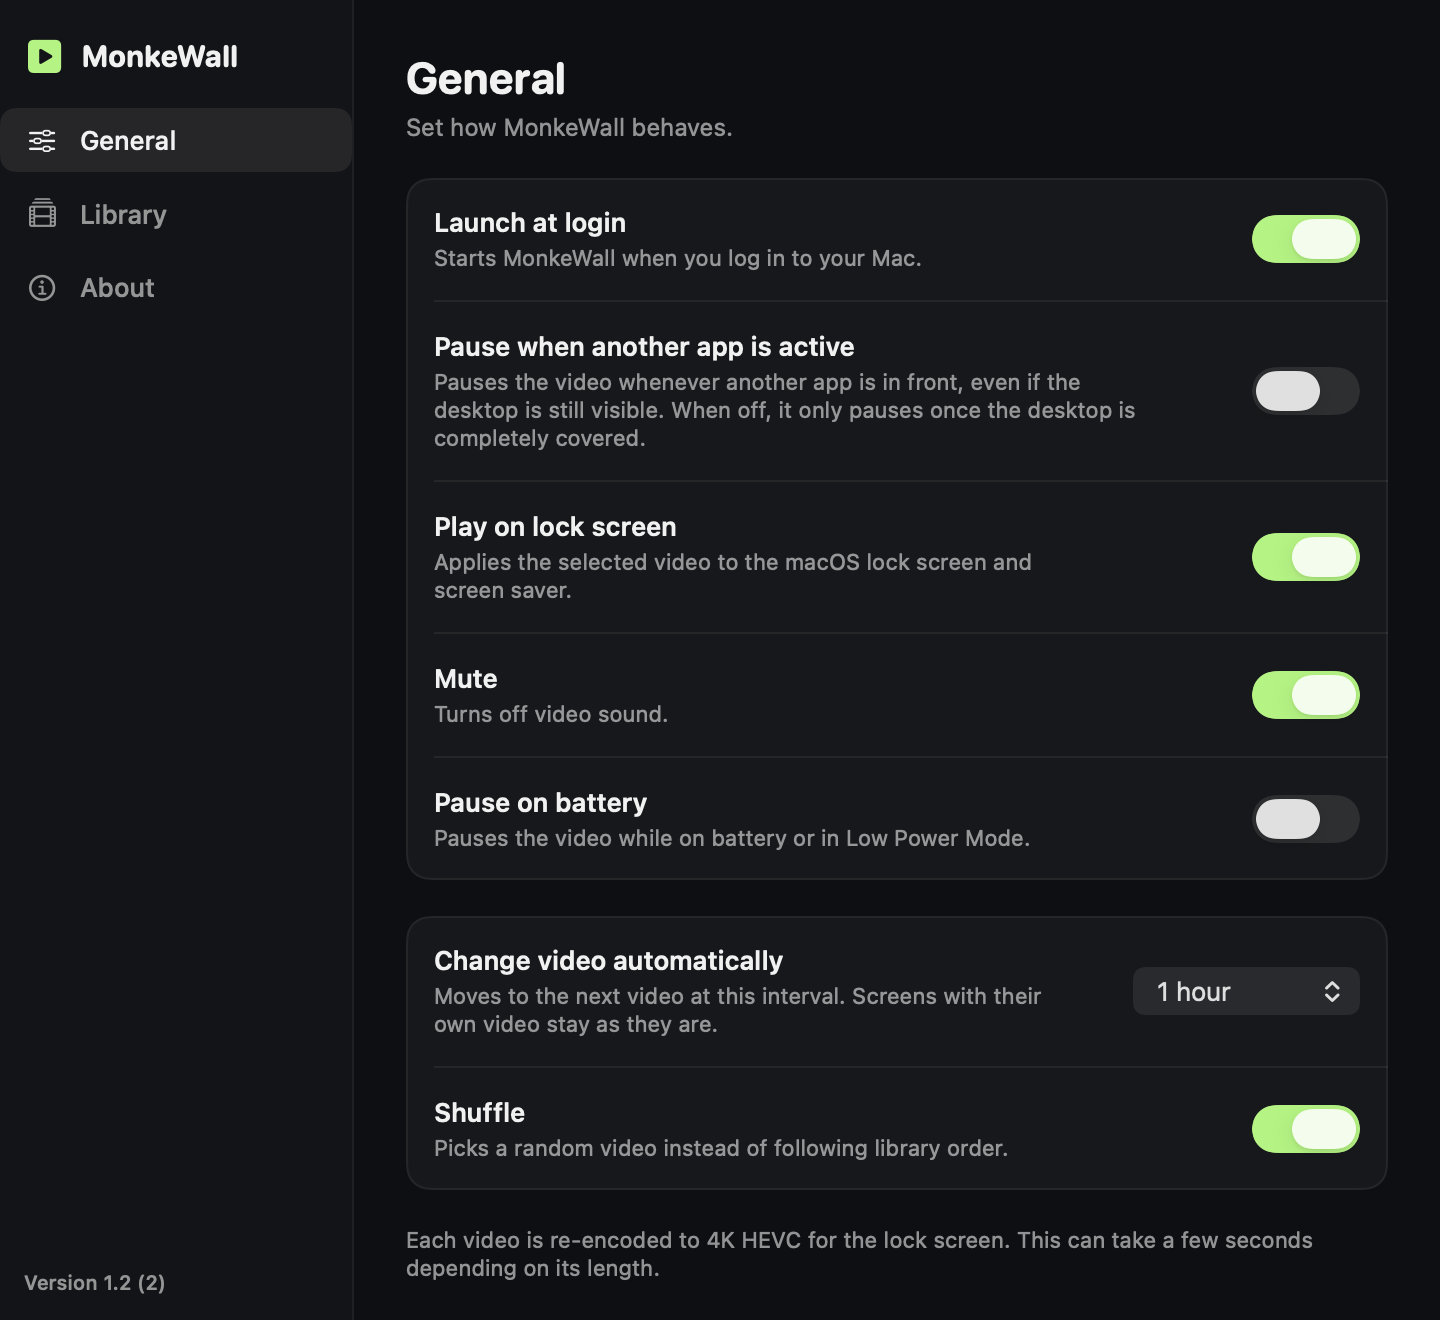
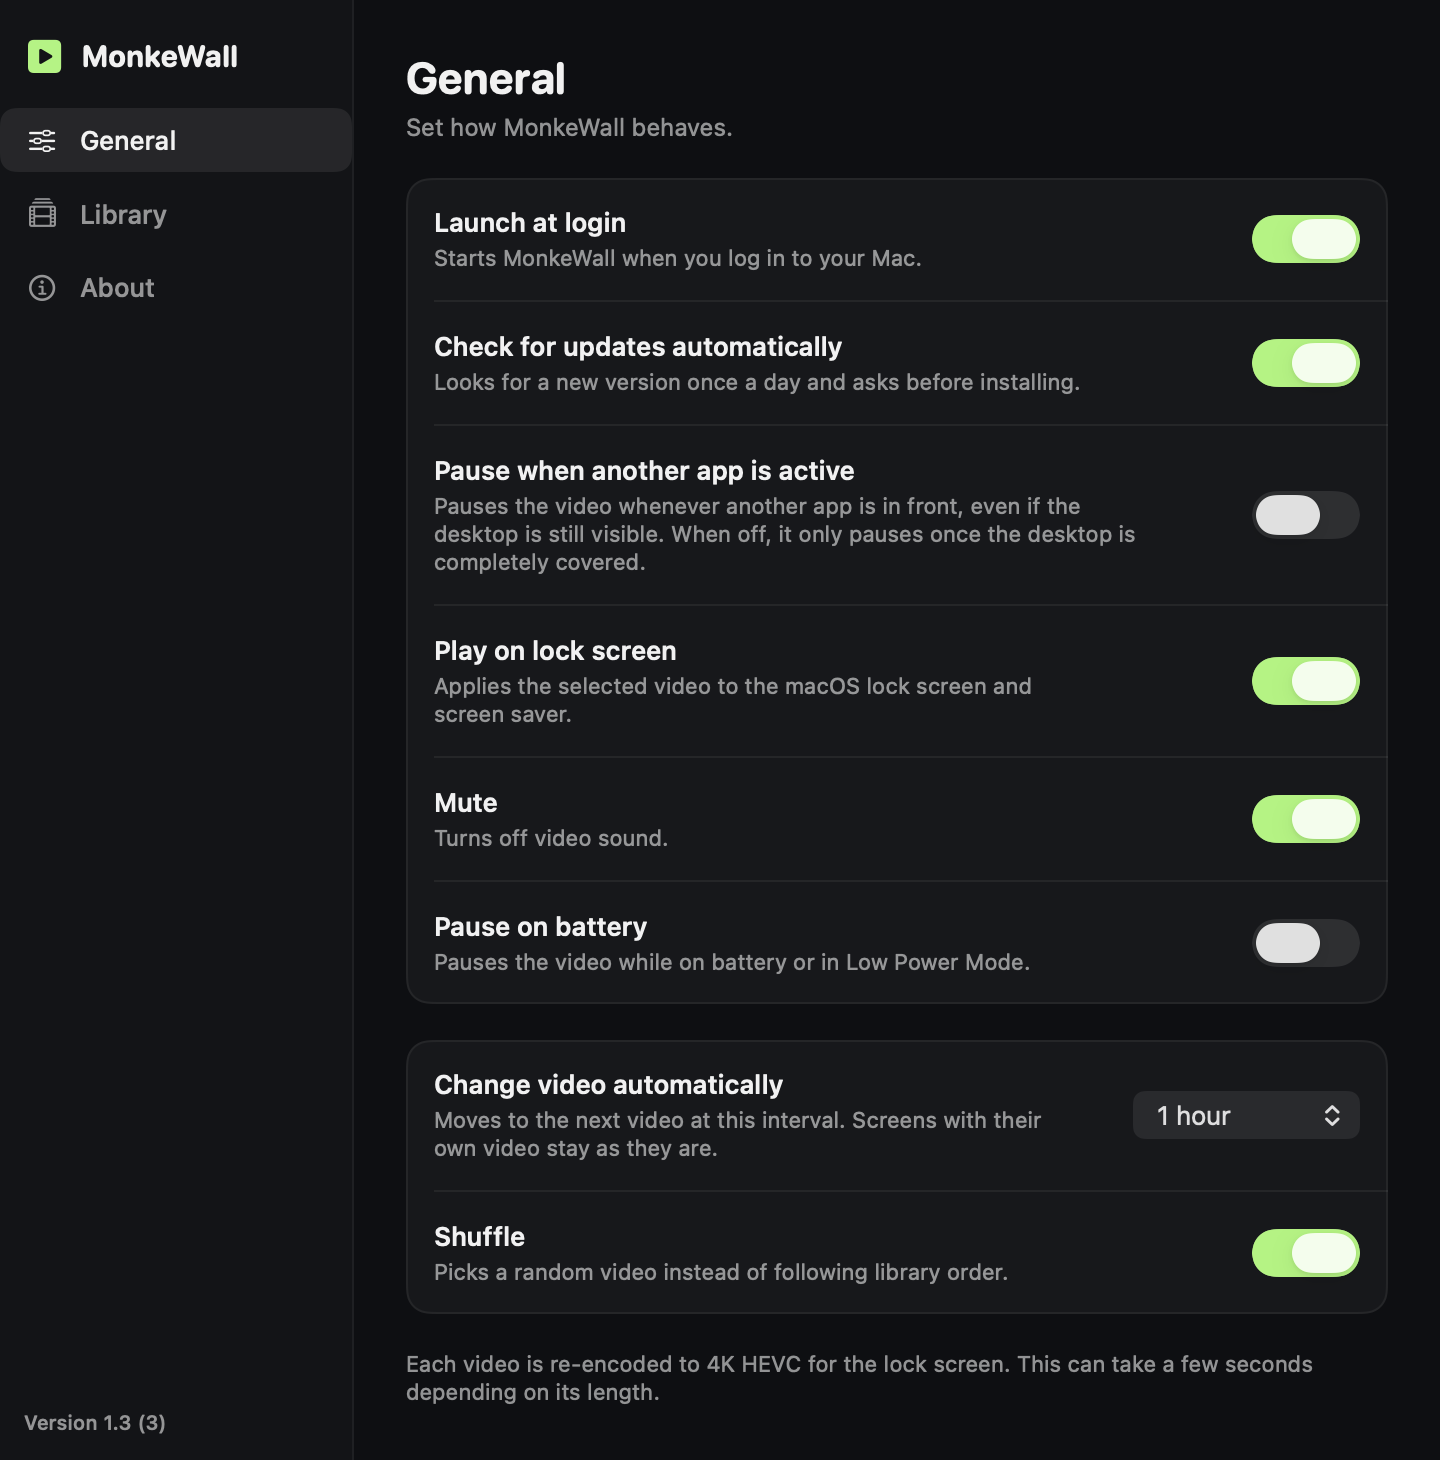
docs: document the Releases install path
- Add download and first launch steps, keep the build from source path
- Explain update checks and remove the no dependencies badge
- Refresh the settings images

diff --git a/README.md b/README.md
@@ -11,7 +11,6 @@
 <p align="center">
   <img src="https://img.shields.io/badge/macOS-13%2B-000000?logo=apple&logoColor=white" alt="macOS 13+">
   <img src="https://img.shields.io/badge/Swift-native-F05138?logo=swift&logoColor=white" alt="Native Swift">
-  <img src="https://img.shields.io/badge/dependencies-none-2E7D32" alt="No dependencies">
   <img src="https://img.shields.io/badge/status-hobby%20project-lightgrey" alt="Hobby project">
   <img src="https://img.shields.io/badge/license-all%20rights%20reserved-lightgrey" alt="License: all rights reserved">
 </p>
@@ -35,10 +34,26 @@ macOS duvar kağıdı olarak yalnızca Apple'ın kendi aerial videolarını oyna
 - Gösterildiği masaüstleri tamamen kapanınca videoyu duraklatır. Ekran uyuyunca ya da Mac kilitlenince hepsi durur.
 - İsterseniz pilde, Düşük Güç Modu'nda ya da başka bir uygulama öndeyken de duraklar.
 - macOS dilinizi izler: Türkçe ya da İngilizce.
+- Yeni sürüm çıkınca haber verir, onayınızla kendini günceller.
 
 ## Kurulum
 
-Henüz hazır indirme yok, kendiniz derliyorsunuz. Apple Silicon bir Mac'te macOS 13 veya üzeri, bir de Xcode gerekir.
+Apple Silicon bir Mac'te macOS 13 veya üzeri gerekir.
+
+1. [Releases](https://github.com/hootbu/MonkeWall/releases/latest) sayfasından zip dosyasını indirip açın.
+2. `MonkeWall.app`'i Uygulamalar klasörüne taşıyın.
+3. Açmayı deneyin. MonkeWall notarize olmadığı için macOS ilk açılışı engeller.
+4. Sistem Ayarları > Gizlilik ve Güvenlik bölümünde **Yine de Aç** düğmesine basın.
+
+Bu düğme çıkmazsa Terminal'de şunu çalıştırıp yeniden açın:
+
+```bash
+xattr -cr /Applications/MonkeWall.app
+```
+
+İlk açılışta kendini giriş öğelerine ekler, bunu Ayarlar'dan kapatabilirsiniz.
+
+Kaynaktan derlemek isterseniz Xcode gerekir:
 
 ```bash
 git clone https://github.com/hootbu/MonkeWall.git
@@ -46,8 +61,6 @@ cd MonkeWall
 ./build.sh
 open MonkeWall.app
 ```
-
-`/Applications` klasöründe durmasını isterseniz `MonkeWall.app`'i açmadan önce oraya taşıyın. İlk açılışta kendini giriş öğelerine ekler, bunu Ayarlar'dan kapatabilirsiniz.
 
 ## Kullanım
 
@@ -77,13 +90,13 @@ Yalnızca bu uygulamanın dilini değiştirmek için Sistem Ayarları > Genel > 
 
 **Videolar yer kaplar.** Her video `~/Library/Application Support/MonkeWall` altına kopyalanır. Kilit ekranı için ayrıca dakikası 150 MB'a varan 4K HEVC bir kopya üretilir.
 
-**Notarize değildir.** Derleme ad-hoc imzalıdır. Derlendiği Mac'te çalışır, başka bir Mac'e kopyalarsanız Gatekeeper engeller.
+**İnternete yalnızca güncelleme için çıkar.** Günde bir kez GitHub'dan yeni sürüm var mı diye bakar, bunu Ayarlar'dan kapatabilirsiniz. Videolarınız Mac'inizden çıkmaz. Güncellemeler [Sparkle](https://sparkle-project.org) ile imzalı olarak gelir, indirilen dosyanın imzası tutmazsa kurulmaz.
 
 ## Kaldırma
 
 **Ayarlar… > Hakkında > MonkeWall'u Kaldır…** önceki duvar kağıdınızı geri getirir, videoları ve ayarları siler, uygulamayı Çöp Kutusu'na taşır.
 
-Aynı temizliği terminalden de yapabilirsiniz, bu yol uygulamayı yerinde bırakır:
+Kaynaktan derlediyseniz aynı temizliği terminalden de yapabilirsiniz, bu yol uygulamayı yerinde bırakır:
 
 ```bash
 ./uninstall.sh
@@ -121,10 +134,26 @@ macOS will only play Apple's own aerial videos as your wallpaper. MonkeWall play
 - Pauses a video once the desktops showing it are fully covered. Everything stops when the display sleeps or the Mac locks.
 - Can also pause on battery, in Low Power Mode, or whenever another app is in front.
 - Follows your macOS language: English or Turkish.
+- Tells you when a new version is out and updates itself with your OK.
 
 ## Install
 
-There is no pre-built download yet, so you build it yourself. You need macOS 13 or later on Apple Silicon, plus Xcode.
+You need macOS 13 or later on Apple Silicon.
+
+1. Download the zip from [Releases](https://github.com/hootbu/MonkeWall/releases/latest) and open it.
+2. Move `MonkeWall.app` to your Applications folder.
+3. Try to open it. MonkeWall isn't notarized, so macOS blocks the first launch.
+4. Go to System Settings > Privacy & Security and click **Open Anyway**.
+
+If that button doesn't appear, run this in Terminal and open it again:
+
+```bash
+xattr -cr /Applications/MonkeWall.app
+```
+
+It adds itself to your login items on first launch. You can turn that off in Settings.
+
+To build from source, you need Xcode:
 
 ```bash
 git clone https://github.com/hootbu/MonkeWall.git
@@ -132,8 +161,6 @@ cd MonkeWall
 ./build.sh
 open MonkeWall.app
 ```
-
-If you want it in `/Applications`, move `MonkeWall.app` there before opening it. It adds itself to your login items on first launch. You can turn that off in Settings.
 
 ## Using it
 
@@ -163,13 +190,13 @@ To change the language for this app alone, use System Settings > General > Langu
 
 **Videos take up space.** Each one is copied into `~/Library/Application Support/MonkeWall`, and the lock screen gets its own 4K HEVC copy of up to 150 MB per minute of video.
 
-**It isn't notarized.** The build is ad-hoc signed. It runs on the Mac that built it, and Gatekeeper blocks it if you copy it to another Mac.
+**It only goes online for updates.** Once a day it asks GitHub whether there's a new version, and you can turn that off in Settings. Your videos never leave your Mac. Updates arrive signed through [Sparkle](https://sparkle-project.org), and a download whose signature doesn't match won't install.
 
 ## Uninstall
 
 **Settings… > About > Uninstall MonkeWall…** brings your previous wallpaper back, deletes the videos and settings, and moves the app to the Trash.
 
-You can do the same cleanup from the terminal, which leaves the app where it is:
+If you built from source, you can do the same cleanup from the terminal, which leaves the app where it is:
 
 ```bash
 ./uninstall.sh
